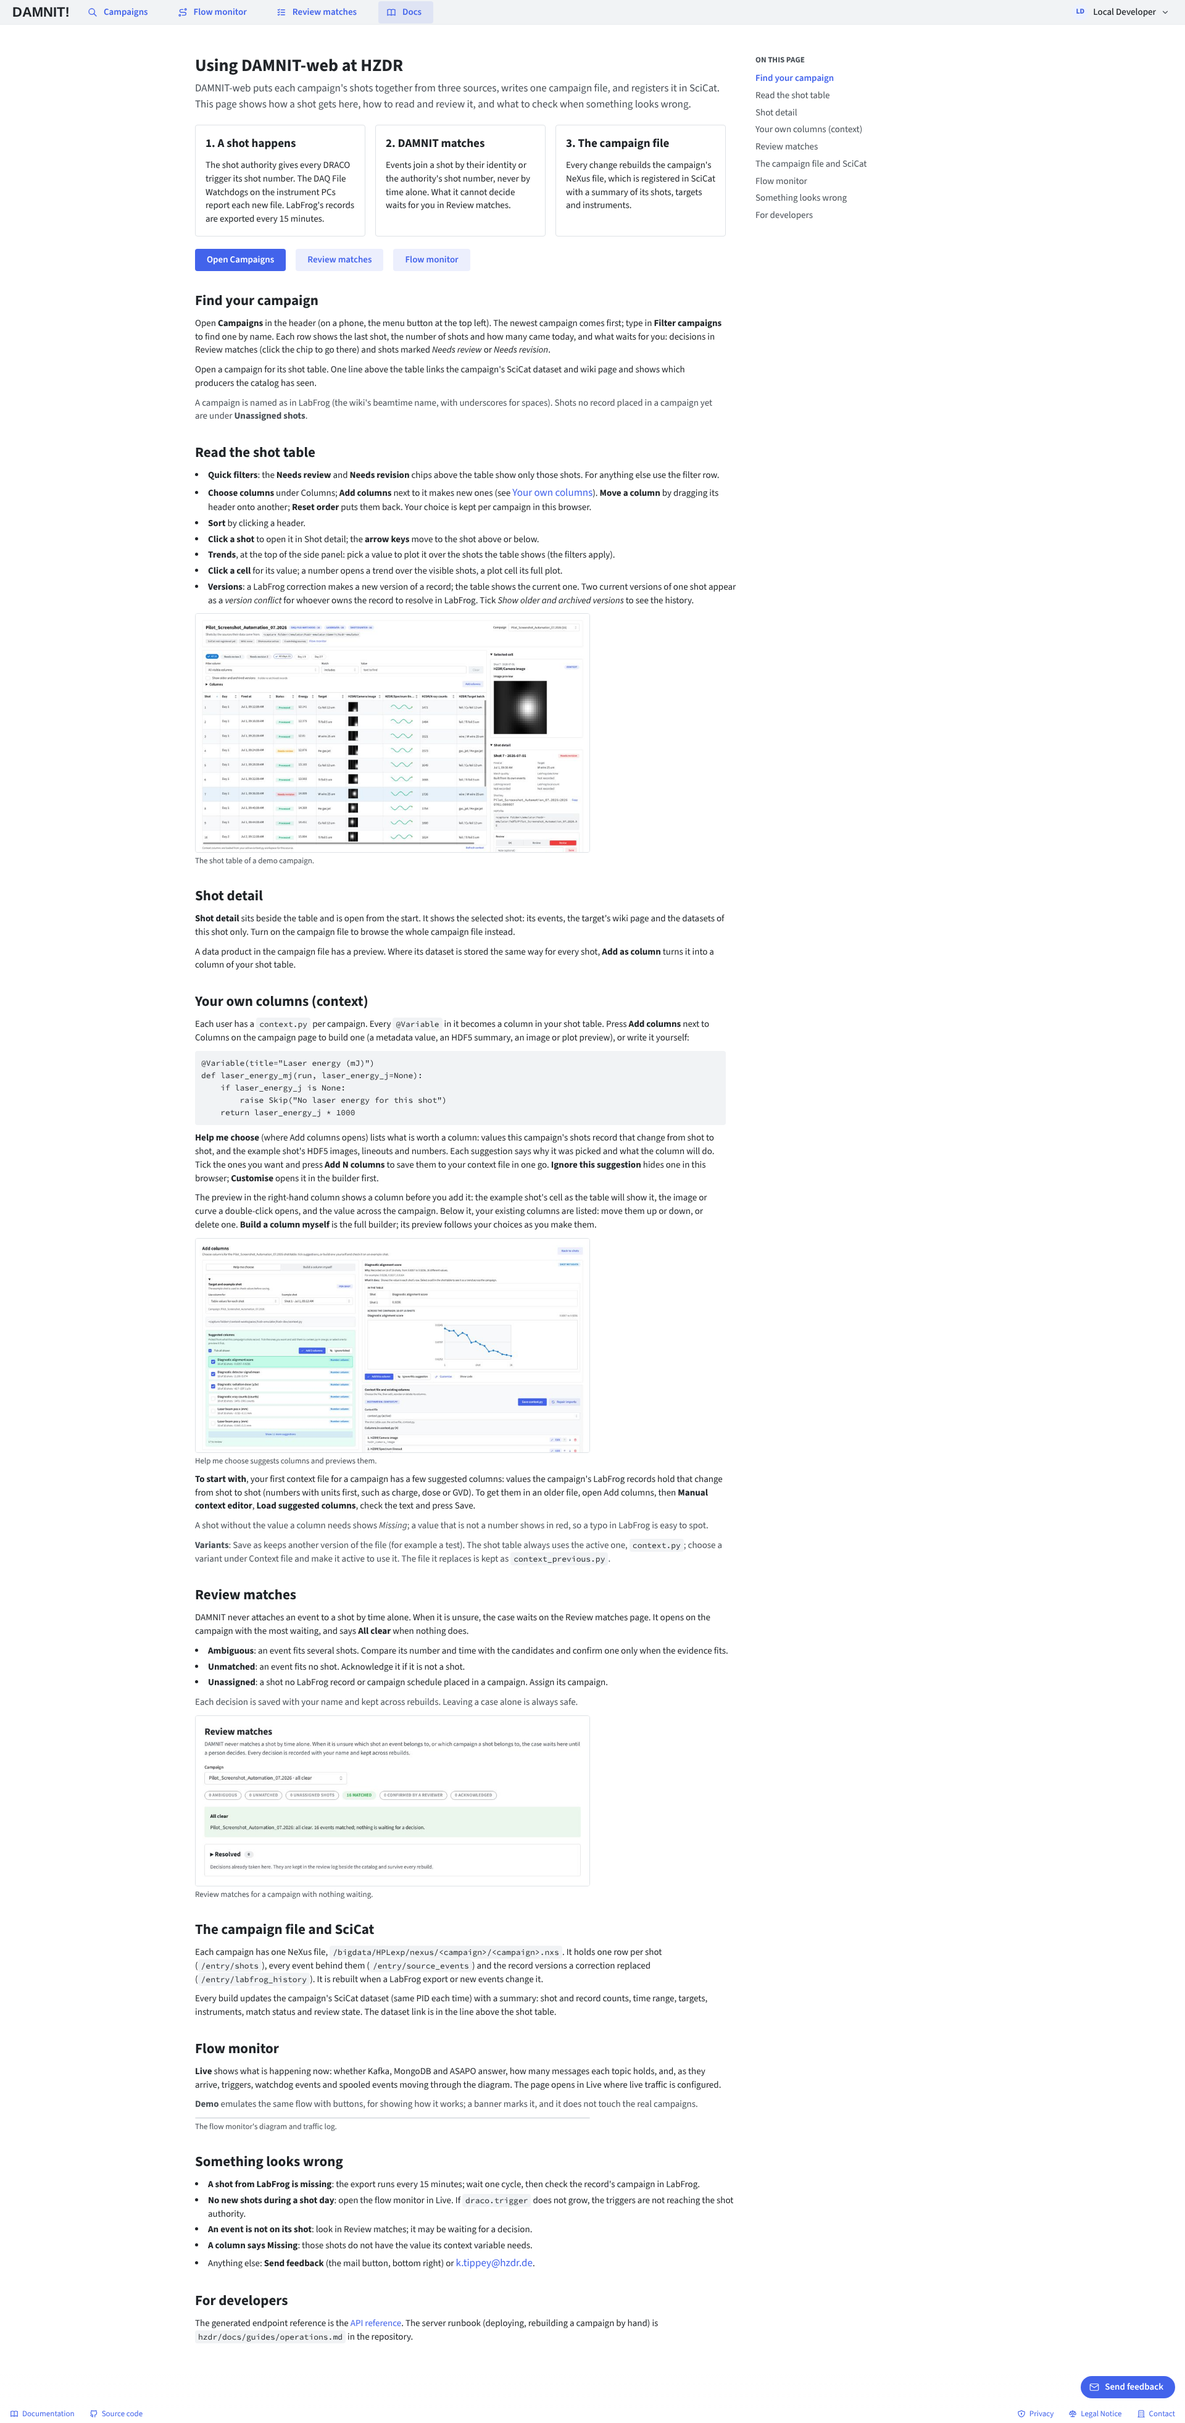
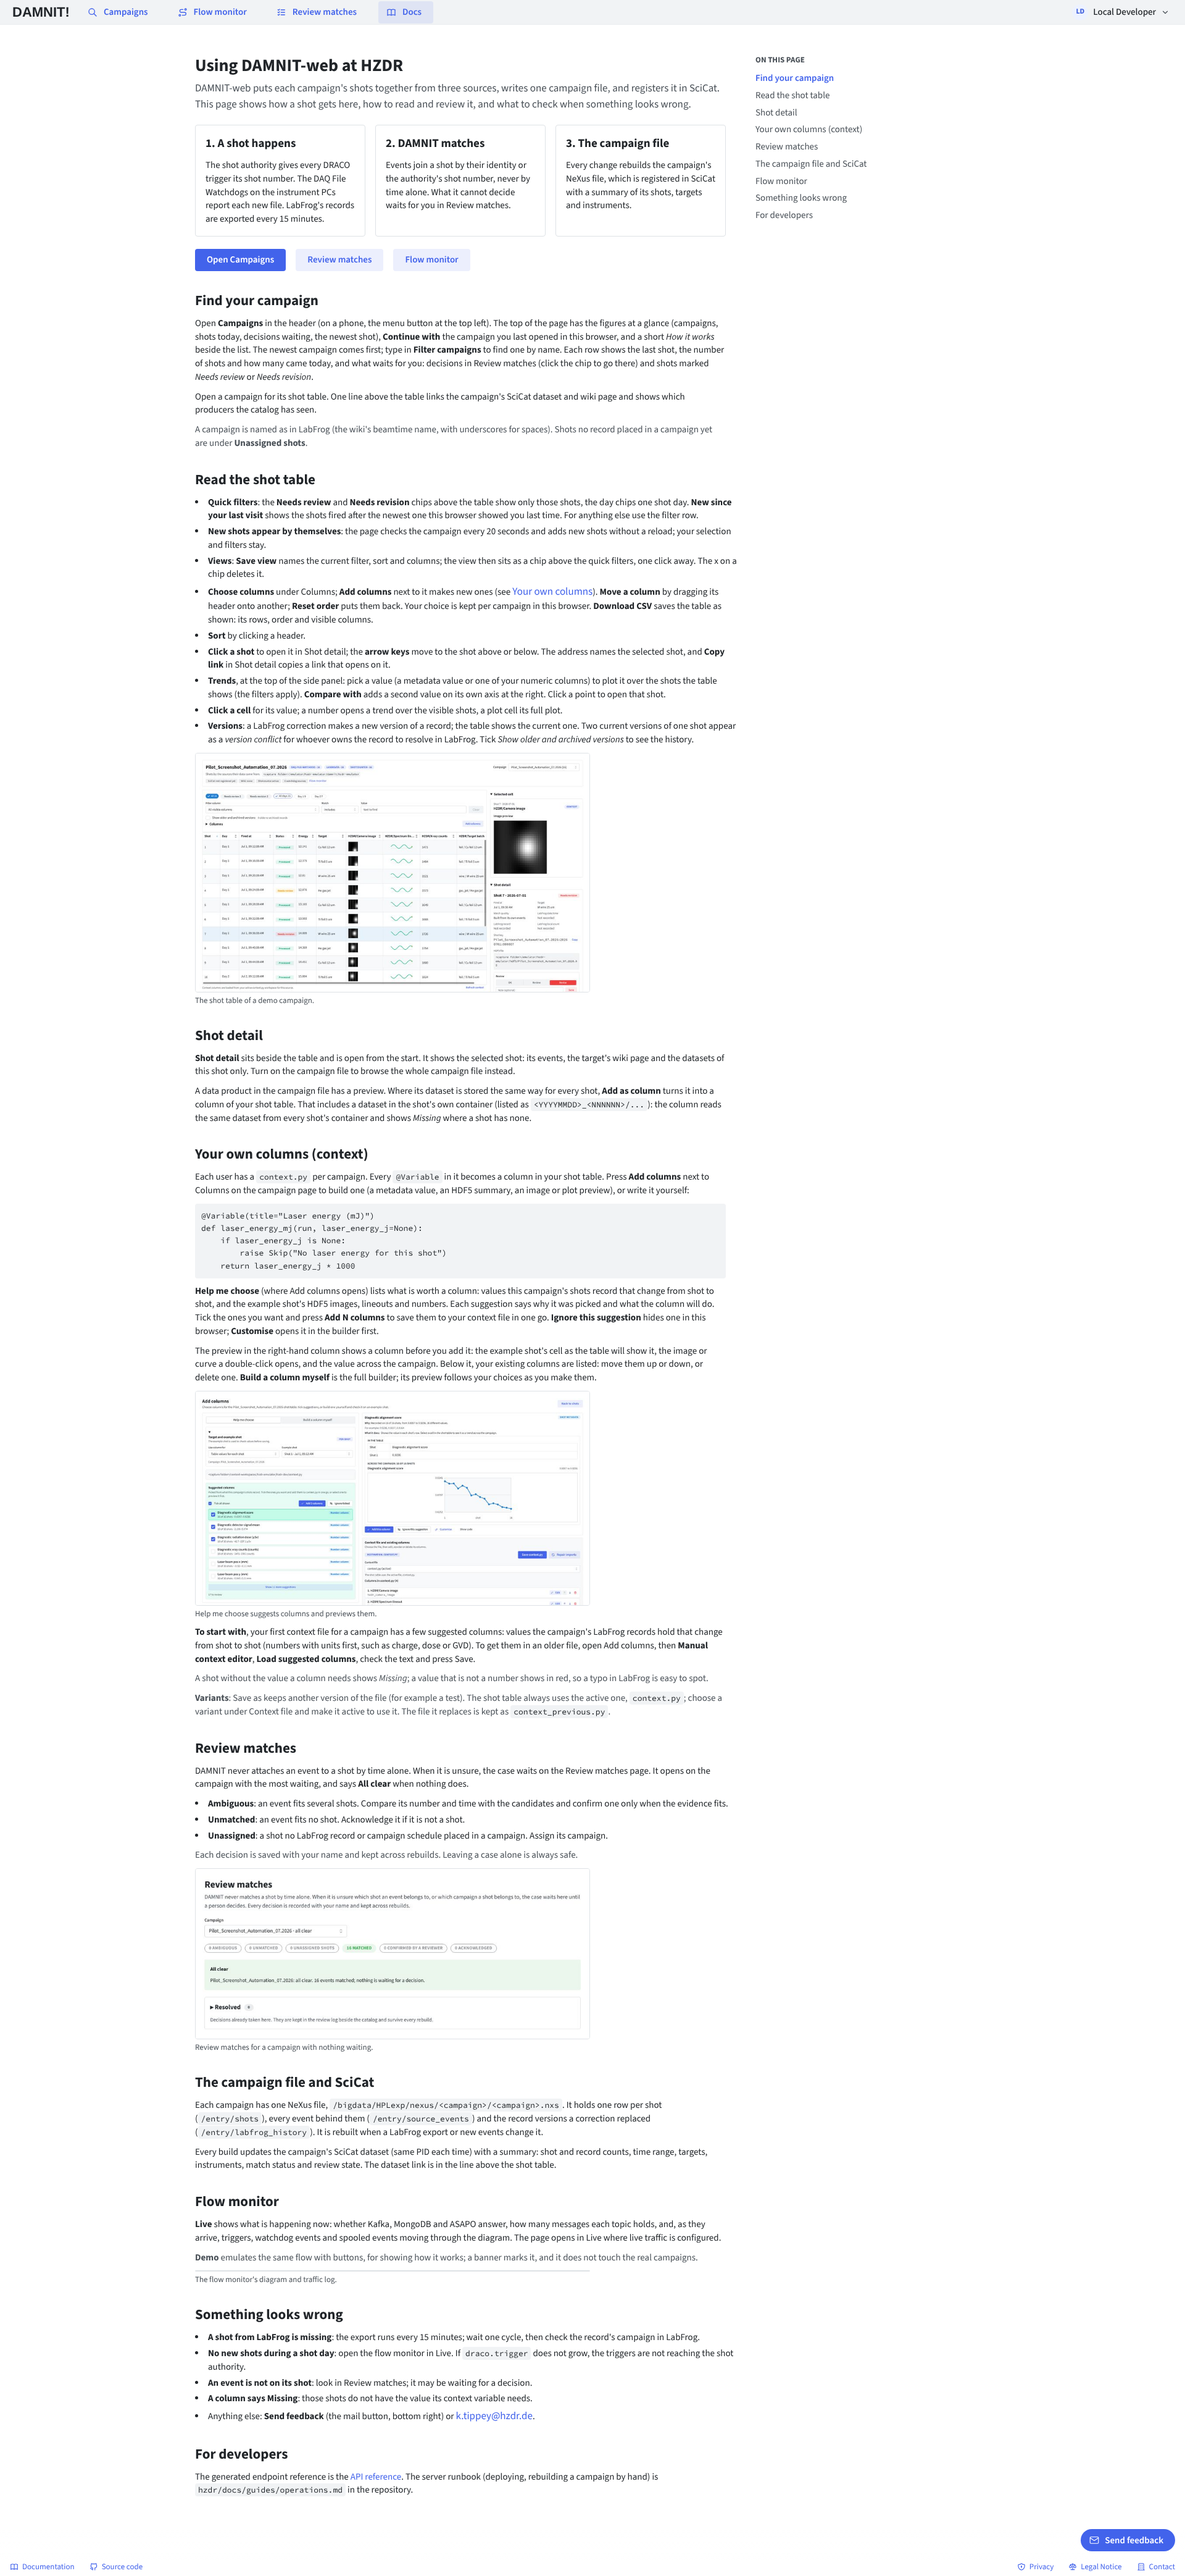
Docs page and screenshots: Views, CSV, new shots, Compare with, containers
The Docs page describes this week's shot-table additions; the screenshot
capture saves a view and picks a Compare with value on the shot table;
all captures and the in-app shot-table image refreshed.

Claude-Session: https://claude.ai/code/session_01GCh6t5oZUZKuoX14Z3tXn3

diff --git a/frontend/apps/app/src/hzdr/pages/DocsPage.tsx b/frontend/apps/app/src/hzdr/pages/DocsPage.tsx
@@ -289,7 +289,20 @@ export function HZDRDocsPage() {
                   <List.Item>
                     <b>Quick filters</b>: the <b>Needs review</b> and{' '}
                     <b>Needs revision</b> chips above the table show only those
-                    shots. For anything else use the filter row.
+                    shots, the day chips one shot day.{' '}
+                    <b>New since your last visit</b> shows the shots fired after
+                    the newest one this browser showed you last time. For
+                    anything else use the filter row.
+                  </List.Item>
+                  <List.Item>
+                    <b>New shots appear by themselves</b>: the page checks the
+                    campaign every 20 seconds and adds new shots without a
+                    reload; your selection and filters stay.
+                  </List.Item>
+                  <List.Item>
+                    <b>Views</b>: <b>Save view</b> names the current filter,
+                    sort and columns; the view then sits as a chip above the
+                    quick filters, one click away. The x on a chip deletes it.
                   </List.Item>
                   <List.Item>
                     <b>Choose columns</b> under Columns; <b>Add columns</b> next
@@ -297,7 +310,8 @@ export function HZDRDocsPage() {
                     <Anchor href="#own-columns">Your own columns</Anchor>).{' '}
                     <b>Move a column</b> by dragging its header onto another;{' '}
                     <b>Reset order</b> puts them back. Your choice is kept per
-                    campaign in this browser.
+                    campaign in this browser. <b>Download CSV</b> saves the
+                    table as shown: its rows, order and visible columns.
                   </List.Item>
                   <List.Item>
                     <b>Sort</b> by clicking a header.
@@ -309,9 +323,11 @@ export function HZDRDocsPage() {
                     Shot detail copies a link that opens on it.
                   </List.Item>
                   <List.Item>
-                    <b>Trends</b>, at the top of the side panel: pick a value to
-                    plot it over the shots the table shows (the filters apply).
-                    Click a point to open that shot.
+                    <b>Trends</b>, at the top of the side panel: pick a value (a
+                    metadata value or one of your numeric columns) to plot it
+                    over the shots the table shows (the filters apply).{' '}
+                    <b>Compare with</b> adds a second value on its own axis at
+                    the right. Click a point to open that shot.
                   </List.Item>
                   <List.Item>
                     <b>Click a cell</b> for its value; a number opens a trend
@@ -344,7 +360,11 @@ export function HZDRDocsPage() {
                   A data product in the campaign file has a preview. Where its
                   dataset is stored the same way for every shot,{' '}
                   <b>Add as column</b> turns it into a column of your shot
-                  table.
+                  table. That includes a dataset in the shot&apos;s own
+                  container (listed as{' '}
+                  <Code style={WRAP}>&lt;YYYYMMDD&gt;_&lt;NNNNNN&gt;/...</Code>
+                  ): the column reads the same dataset from every shot&apos;s
+                  container and shows <i>Missing</i> where a shot has none.
                 </Text>
               </DocSection>
 

diff --git a/hzdr/scripts/capture-screenshots.py b/hzdr/scripts/capture-screenshots.py
@@ -654,6 +654,29 @@ def _select_camera_image_cell(page: Page) -> None:
     page.get_by_text("Image preview").first.wait_for()
 
 
+def _prepare_shot_table(page: Page) -> None:
+    """Show a saved view, a second trend value and an opened image cell.
+
+    Saves the default table as a view named "All shots" (so a chip shows
+    beside Save view), picks the X-ray counts column under Compare with (so
+    Trends draws its second axis) and opens the camera-image cell of shot 7.
+    """
+    page.get_by_role("button", name="Save view").click()
+    name = page.get_by_role("textbox", name="View name")
+    name.fill("All shots")
+    name.press("Enter")
+    page.get_by_role("button", name="All shots").first.wait_for()
+    compare = page.get_by_role("textbox", name="Compare with")
+    compare.click()
+    option = page.get_by_role("option", name=re.compile("X-ray counts"))
+    if option.count():
+        option.first.click()
+    else:
+        print("warning: no X-ray counts option under Compare with", file=sys.stderr)
+        page.keyboard.press("Escape")
+    _select_camera_image_cell(page)
+
+
 def _context_column_index(page: Page, title: str) -> int | None:
     """Find a context column's cell index by its header title."""
     headers = page.locator("table thead th")
@@ -767,7 +790,7 @@ SHOTS = (
         f"/source/{PRIMARY.source_key}",
         "selector",
         "table",
-        _select_camera_image_cell,
+        _prepare_shot_table,
     ),
     Shot(
         "context-assist.png",

diff --git a/hzdr/docs/screenshots.md b/hzdr/docs/screenshots.md
@@ -23,6 +23,15 @@ To use a Chromium that is already installed instead of Playwright's download,
 set `HZDR_CHROMIUM_EXECUTABLE` to its binary.
 Server output and browser errors are printed to the terminal for troubleshooting.
 
+The in-app Docs page shows smaller copies in
+`frontend/apps/app/src/hzdr/assets/docs/` (900 px wide JPEGs of each page's
+top). They are not written by the capture; after one, refresh a copy whose
+page changed, for example the shot table:
+
+```bash
+python3 -c "from PIL import Image; Image.open('hzdr/docs/screenshots/shot-table.png').convert('RGB').crop((0, 0, 1920, 1160)).resize((900, 544), Image.LANCZOS).save('frontend/apps/app/src/hzdr/assets/docs/docs-shot-table.jpg', quality=85, optimize=True)"
+```
+
 ## What the fixture stack contains
 
 The capture script authors the whole campaign itself, so the pages show a run
@@ -63,9 +72,12 @@ the shots needing review or revision; the DAMNIT folder is small print.
 A campaign page (`/source/{source_key}`): DAMNIT's per-shot table with
 status badges, campaign/context columns and inline image and trend previews.
 Above it, one line of status chips (SciCat, wiki, producers, Flow monitor),
-quick filters for review status and day, and **Add columns** beside Columns.
-The side panel opens with **Trends** (pick a value; it plots the shots the
-table shows). The capture clicks a camera-image cell of shot 7, so below it
+quick filters for review status and day, and **Add columns** and **Download
+CSV** beside Columns. The capture saves the table as a view named "All
+shots", so a chip shows under **Views** beside Save view. The side panel
+opens with **Trends** (pick a value; it plots the shots the table shows);
+the capture picks the X-ray counts column under **Compare with**, drawn
+dashed on its own right-hand axis. It clicks a camera-image cell of shot 7, so below it
 Selected cell shows the full preview, then Shot detail (open by default:
 facts, the review control, events, data products and only that shot's
 datasets as a tree).

diff --git a/hzdr/docs/plans/ui-backlog.md b/hzdr/docs/plans/ui-backlog.md
@@ -87,9 +87,11 @@ Rule from the maintainer: clean up around the shot table, never redesign it.
   summary and fetches the shots again only when the count, newest shot or
   review counts changed (`utils/new-shots.ts` `shotListChangeKey`,
   `usePolling`); quiet, so selection and filters stay.
-- [ ] **Docs page and screenshots up to date** with Views, Download CSV,
+- [x] **Docs page and screenshots up to date** with Views, Download CSV,
   New since your last visit, Compare with, the self-refresh and
-  `{container}` columns.
+  `{container}` columns. Done: DocsPage text, all seven captures (the
+  shot-table capture saves a view and picks Compare with), the in-app
+  shot-table JPEG (how to refresh one: `hzdr/docs/screenshots.md`).
 - [x] **Containers go-live checklist** in `hzdr/docs/guides/operations.md`:
   the settings to turn on, what to check after the first build. Phase 6
   (one campaign built by both us and shot-aligner, compared with

diff --git a/hzdr/CHANGELOG.md b/hzdr/CHANGELOG.md
@@ -6,6 +6,12 @@ behaviour; the merge PR has the details.
 
 ## 2026-11-21
 
+### Docs and screenshots
+- The in-app Docs page describes Views, Download CSV, New since your last
+  visit, the self-refresh, Trends' Compare with and columns on a shot's
+  container. The screenshots are recaptured; the shot-table capture now
+  shows a saved view and a second trend value.
+
 ### Shot table: new shots appear without a reload
 - The campaign page reads the campaign summary every 20 s while its tab is
   visible (the same light route Home polls) and fetches the shots and your
